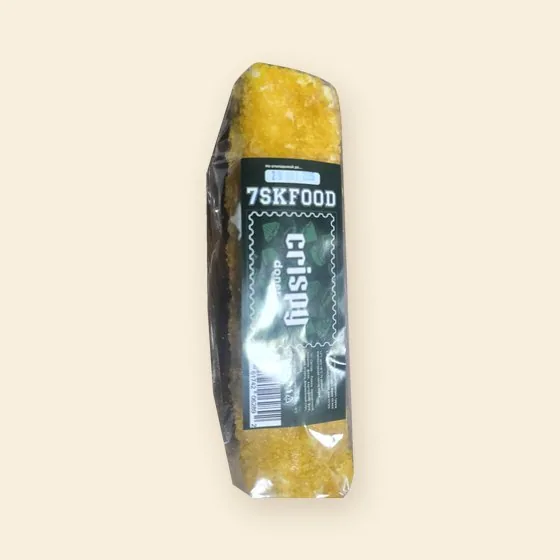
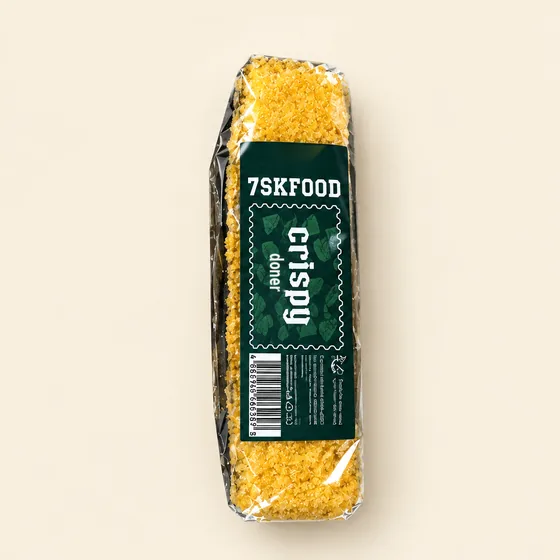
Doner Crispy: new photo (label fixed: doner, no date), show on site
Claude-Session: https://claude.ai/code/session_01BGg67RWkXMpNdrJ4w4wqim

Changed region(s): [[0.3643, 0.0911, 0.7286, 1.0]]

diff --git a/products.js b/products.js
@@ -99,7 +99,7 @@ const PRODUCTS = [
   {name:"Квестер Биф", brand:"Bravo", category:"Сэндвичи", weight:"", price:null, labels:[], image:"img/29.webp",
    composition:"", shelfLife:"", nutrition:"",
    kk:{name:"Квестер Биф"}},
-  {name:"Донер Crispy", hidden:true /* скрыт до пересъёмки фото */, brand:"7SKFOOD", category:"Донер", weight:"", price:null, labels:[], image:"img/30.webp", composition:"Лаваш пшеничный, куриное филе, картофель фри, свежий огурец, фирменный соус, панировка.", shelfLife:"Хранить при температуре от +2 до +6 °C.",
+  {name:"Донер Crispy", brand:"7SKFOOD", category:"Донер", weight:"", price:null, labels:[], image:"img/30.webp", composition:"Лаваш пшеничный, куриное филе, картофель фри, свежий огурец, фирменный соус, панировка.", shelfLife:"Хранить при температуре от +2 до +6 °C.",
    kk:{name:"Crispy дөнер", composition:"Бидай лавашы, тауық еті филесі, фри картобы, жаңа піскен қияр, фирмалық тұздық, панировка.", shelfLife:"+2 °C-ден +6 °C-ге дейінгі температурада сақтау керек."}},
   {name:"Sushi Burger с курицей", brand:"AsGo", category:"Кимпаб", weight:"", price:null, labels:[], image:"img/31.webp", composition:"Рис, творожный сыр, нори, курица темпура, морковь, огурец, спайси соус.", nutrition:"На упаковку: 400–430 ккал, белки 22 г, жиры 16 г, углеводы 45 г.",
    kk:{name:"Тауық етімен Sushi Burger", composition:"Күріш, сүзбе ірімшігі, нори, темпурадағы тауық еті, сәбіз, қияр, спайси тұздығы.", nutrition:"Қаптамада: 400–430 ккал, ақуыз 22 г, май 16 г, көмірсу 45 г."}},
